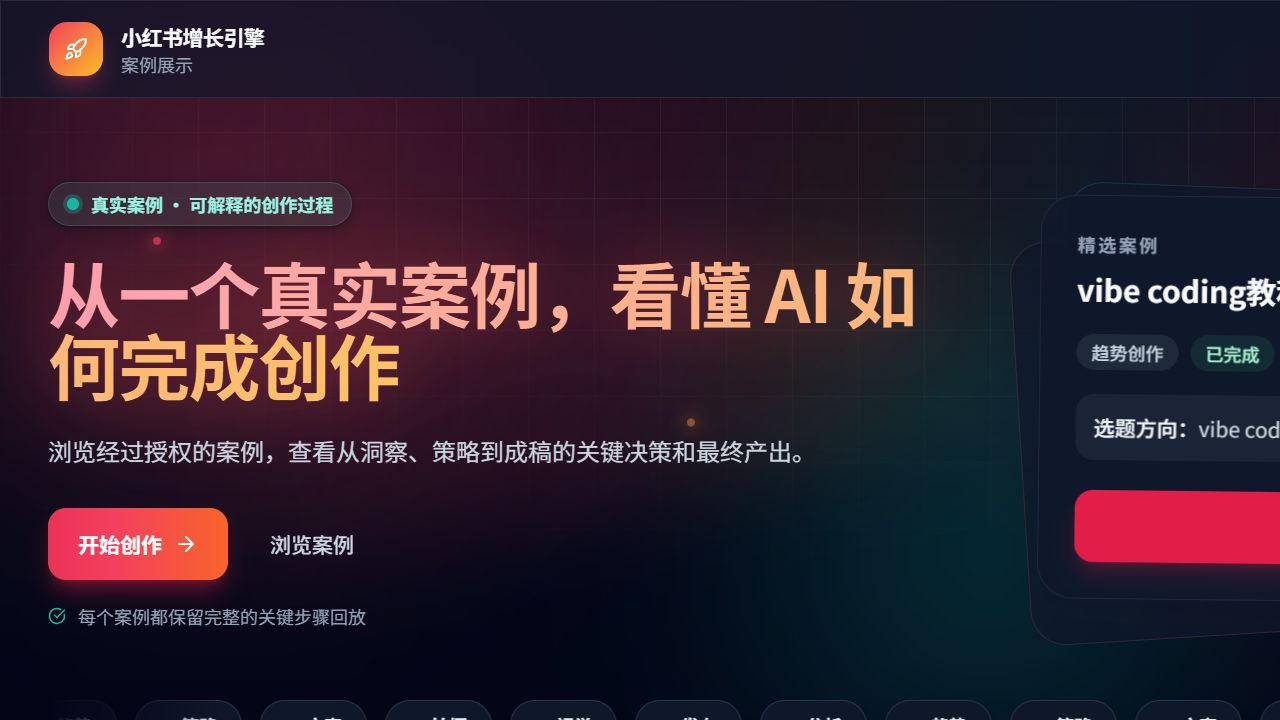
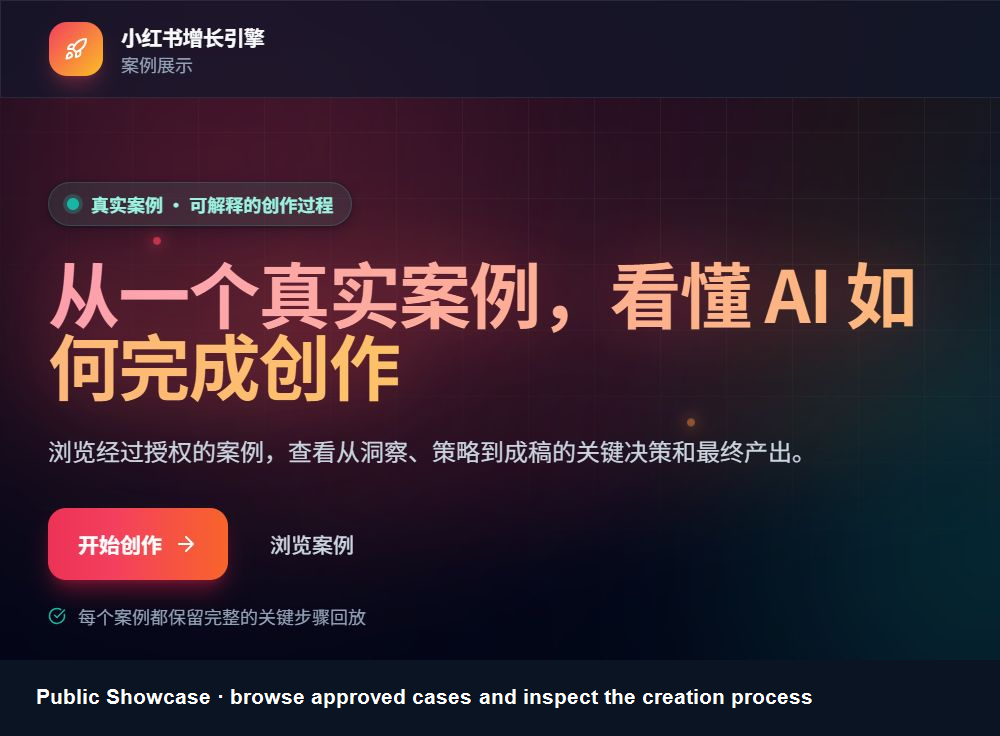
docs: refine bilingual README product showcase

diff --git a/README.md b/README.md
@@ -30,21 +30,36 @@ The public deployment has two read-only surfaces for inspecting the product befo
 
 The `Start creating` entry point is an authenticated workspace. The public pages demonstrate the product and its outputs; creating, running, reviewing, or publishing your own workflow requires login and configured credentials.
 
+### Product tour at a glance
+
+<p align="center">
+  <img src="docs/assets/readme/product-tour-overview.png" alt="Four-panel XHS Growth Agent product tour covering Showcase, Workflow Replay, Start Creating, and Analytics" width="100%">
+</p>
+
+| Area | Live entry | Access | Demonstrates |
+| --- | --- | --- | --- |
+| Public Showcase | [`/`](https://xhs.jameryw.dev/) | No login | Browse approved cases and inspect the final output. |
+| Workflow Replay | [`/replay/:caseId`](https://xhs.jameryw.dev/replay/case_c35a6559d23fd17cd832?from=%2F) | No login | Follow the evidence chain from trend discovery to review. |
+| Start Creating | `/start` | Login required | Choose Trend Discovery, Commercial Brief, or Free Creation. |
+| Analytics | `/analytics` | Login required | Switch account scope, filter time windows, and inspect growth insights. |
+
+Start with the overview, then use the detailed panels to inspect each surface. Every image uses a complete feature region with an explicit boundary, so the README stays readable at a glance.
+
 ### Showcase landing page
 
 <p align="center">
-  <img src="docs/assets/readme/live-home.png" alt="Public XHS Growth Agent Showcase landing page" width="100%">
+  <img src="docs/assets/readme/live-home.png" alt="Framed Public XHS Growth Agent Showcase hero panel" width="100%">
 </p>
 
-*Captured from the public deployment on 2026-08-12. The live sample is presented in the product's Chinese UI.*
+*Captured from the public deployment on 2026-08-12. This crop keeps the complete Showcase hero panel and removes partial cards or scroll continuation.*
 
 ### Workflow Replay
 
 <p align="center">
-  <img src="docs/assets/readme/live-replay.png" alt="Public XHS Growth Agent Workflow Replay showing four key stages" width="100%">
+  <img src="docs/assets/readme/live-replay.png" alt="Framed Public XHS Growth Agent Workflow Replay introduction panel" width="100%">
 </p>
 
-*The replay keeps the key decisions and generated outputs inspectable instead of showing only a final text blob.*
+*The replay keeps key decisions and generated outputs inspectable. This image ends at the complete stage-navigation panel.*
 
 The public sample demonstrates:
 
@@ -53,25 +68,25 @@ The public sample demonstrates:
 3. Content creation with a title, long-form body, and visual direction.
 4. Content review with key takeaways, hashtags, image count, and a color palette.
 
-### Authenticated workspace snapshots
+### Authenticated workspace feature panels
 
-The signed-in workspace adds account-scoped creation and growth operations on top of the public case viewer. These snapshots were captured from the deployed product on 2026-08-12; private account names, KPI values, and post/topic text are deliberately redacted.
+The signed-in workspace adds account-scoped creation and growth operations on top of the public case viewer. These feature panels were captured from the deployed product on 2026-08-12; private account names, KPI values, and post/topic text are deliberately redacted. Each image is composed from complete UI regions rather than a clipped long-page scroll.
 
 <p align="center">
-  <img src="docs/assets/readme/authenticated-create.png" alt="Redacted authenticated Start Creating workspace showing three creation modes, quick entries, topic input, and vertical selection" width="100%">
+  <img src="docs/assets/readme/authenticated-create.png" alt="Framed redacted authenticated Start Creating panel showing three creation modes and quick entry points" width="100%">
 </p>
 
 *Start Creating: choose Trend Discovery, Commercial Brief, or Free Creation, then continue through account-scoped setup and the preflight checklist.*
 
 <p align="center">
-  <img src="docs/assets/readme/authenticated-analytics.png" alt="Redacted authenticated Analytics workspace showing account switching, time filters, KPI cards, growth insights, and topic analysis" width="100%">
+  <img src="docs/assets/readme/authenticated-analytics.png" alt="Framed redacted authenticated Analytics panels showing account scope, time filters, KPI cards, and growth insights" width="100%">
 </p>
 
 *Analytics: switch account scope, select a time window, inspect KPI cards and growth insights, and continue into topic, chart, post-level, and CSV-export views.*
 
 ### Authenticated workspace tour
 
-After sign-in, the product expands from a public case viewer into an account-scoped operating workspace:
+After sign-in, the workspace is account-scoped and covers creation, review, analytics, and account operations:
 
 | Surface | What you can do |
 | --- | --- |
@@ -84,7 +99,20 @@ After sign-in, the product expands from a public case viewer into an account-sco
 | Settings | Manage console users, XHS accounts, QR/browser login state, creator-center data binding, global model/Ripple/vector configuration, and public-page experience monitoring. |
 | Help Center | Read FAQs, open keyboard shortcuts, and submit product feedback. |
 
-The inventory above reflects the signed-in workspace observed on 2026-08-12. Account names, private metrics, post text, and workflow records vary by deployment and are intentionally not checked into this repository; the public Showcase/Replay images and the redacted workspace snapshots above are the shareable evidence assets.
+The inventory above reflects the signed-in workspace observed on 2026-08-12. Account names, private metrics, post text, and workflow records vary by deployment and are intentionally not checked into this repository; the public Showcase/Replay images and the redacted workspace panels above are the shareable evidence assets.
+
+### From input to output
+
+With the relevant integrations enabled, a run moves from the following inputs through workspace steps to inspectable outputs:
+
+| Input or signal | Workspace step | Output to inspect |
+| --- | --- | --- |
+| Trend or growth brief | Start Creating | Account, topic, vertical, and readiness state |
+| Research signals | Trend Scout + Content Strategist | Evidence, audience insight, positioning, and timing |
+| Draft direction | Copywriter + Visual Designer | Title, body, hashtags, CTA, and visual plan |
+| Human decision | Review | Approval, rejection, or revision feedback before publishing |
+| Approved package | Quality Evaluation + Publisher | Quality result, publish request, and optional experiment/scheduling hooks |
+| Performance feedback | Analytics + Engagement | KPIs, topic patterns, post-level results, and signals for the next run |
 
 ## Product capabilities
 
@@ -291,7 +319,7 @@ Use `/xhs [topic]` to start a workflow and `/xhs-review` to review pending conte
 
 ## Visual recommendation engine
 
-The visual layer is data-driven rather than a fixed prompt list. It extracts patterns from XHS posts, stores scene-level data with expiry, and recommends layouts and styles by content type, compatibility, popularity, palette, and trend score.
+The visual layer uses data-driven recommendations. It extracts patterns from XHS posts, stores scene-level data with expiry, and recommends layouts and styles by content type, compatibility, popularity, palette, and trend score.
 
 Supported scene families include food, travel, fashion, beauty, lifestyle, fitness, and home decor. The recommendation models live under `backend/tools/visual/` and are consumed by the visual designer workflow.
 

diff --git a/README.zh-CN.md b/README.zh-CN.md
@@ -30,21 +30,36 @@
 
 “开始创作”会进入需要登录的工作区。公开页面用于了解产品和示例结果；创建、运行、审核或发布自己的工作流需要登录并配置凭据。
 
+### 产品导览总览
+
+<p align="center">
+  <img src="docs/assets/readme/product-tour-overview.png" alt="四宫格小红书增长引擎产品导览，覆盖公开案例、工作流回放、开始创作和数据分析" width="100%">
+</p>
+
+| 区域 | 线上入口 | 访问要求 | 展示内容 |
+| --- | --- | --- | --- |
+| 公开案例展示 | [`/`](https://xhs.jameryw.dev/) | 无需登录 | 浏览已授权案例并查看最终产出。 |
+| 工作流回放 | [`/replay/:caseId`](https://xhs.jameryw.dev/replay/case_c35a6559d23fd17cd832?from=%2F) | 无需登录 | 按步骤查看从趋势发现到内容审核的证据链。 |
+| 开始创作 | `/start` | 需要登录 | 选择趋势发现、商单 Brief 或自由创作。 |
+| 数据分析 | `/analytics` | 需要登录 | 切换账号范围、筛选时间窗口并查看增长洞察。 |
+
+先看总览图，再通过下面的功能区块了解各个页面。每张图片都保留完整界面区域并标出清晰边界，打开 README 时可以直接读懂。
+
 ### 案例展示首页
 
 <p align="center">
-  <img src="docs/assets/readme/live-home.png" alt="小红书增长引擎公开案例展示首页" width="100%">
+  <img src="docs/assets/readme/live-home.png" alt="带完整边界的小红书增长引擎公开案例展示主视觉区块" width="100%">
 </p>
 
-*截图于 2026-08-12 的线上公开部署，线上示例使用产品中文界面。*
+*截图于 2026-08-12 的线上公开部署。图片保留完整的 Showcase 主视觉区块，并移除了半截卡片和页面滚动延续内容。*
 
 ### 工作流回放
 
 <p align="center">
-  <img src="docs/assets/readme/live-replay.png" alt="展示四个关键阶段的小红书增长引擎工作流回放" width="100%">
+  <img src="docs/assets/readme/live-replay.png" alt="带完整边界的小红书增长引擎工作流回放介绍区块" width="100%">
 </p>
 
-*回放保留关键决策和生成结果，用户看到的不只是最终一段文案。*
+*回放保留关键决策和生成结果；图片停在完整的阶段导航区块。*
 
 线上公开案例当前展示了：
 
@@ -53,25 +68,25 @@
 3. 内容创作，包括标题、长正文和视觉方向；
 4. 内容审核，包括关键要点、标签、图片数量和配色方案。
 
-### 登录后工作区截图
+### 登录后工作区功能区块截图
 
-登录后的工作区在公开案例查看器之上增加了按账号隔离的创作与增长运营能力。以下截图来自 2026-08-12 的线上部署；账号名称、指标数值以及帖子/话题文本均已主动遮盖。
+登录后的工作区在公开案例查看器之上增加了按账号隔离的创作与增长运营能力。以下功能区块截图来自 2026-08-12 的线上部署；账号名称、指标数值以及帖子/话题文本均已主动遮盖。每张图片都由完整界面区块构成，不再使用容易产生残缺的长页面滚动截图。
 
 <p align="center">
-  <img src="docs/assets/readme/authenticated-create.png" alt="已脱敏的登录后开始创作工作区，展示三种创作模式、快速入口、主题输入和垂类选择" width="100%">
+  <img src="docs/assets/readme/authenticated-create.png" alt="带完整边界的已脱敏登录后开始创作区块，展示三种创作模式和快速入口" width="100%">
 </p>
 
 *开始创作：选择趋势发现、商单 Brief 或自由创作，再继续完成按账号配置和启动前就绪检查。*
 
 <p align="center">
-  <img src="docs/assets/readme/authenticated-analytics.png" alt="已脱敏的登录后数据分析工作区，展示账号切换、时间筛选、指标卡、增长洞察和话题分析" width="100%">
+  <img src="docs/assets/readme/authenticated-analytics.png" alt="带完整边界的已脱敏登录后数据分析区块，展示账号范围、时间筛选、指标卡和增长洞察" width="100%">
 </p>
 
 *数据分析：切换账号范围、选择时间窗口、查看指标卡和增长洞察，并继续查看话题、图表、帖子明细和 CSV 导出。*
 
 ### 登录后工作区导览
 
-登录后，产品会从公开案例查看器扩展为按账号隔离的内容运营工作区：
+登录后，工作区按账号隔离，覆盖创作、审核、数据分析和账号运营：
 
 | 页面 | 可以做什么 |
 | --- | --- |
@@ -84,7 +99,20 @@
 | 设置 | 管理管控台用户、小红书账号、扫码/浏览器登录态、创作者中心数据绑定、模型/Ripple/向量配置和公开页体验监控。 |
 | 帮助中心 | 查看 FAQ、打开键盘快捷键并提交产品反馈。 |
 
-以上能力清单来自 2026-08-12 对登录后工作区的实际查看。账号名称、真实指标、帖子文本和工作流记录会随部署变化，因此不会提交到仓库；仓库保留公开 Showcase/Replay 截图和已脱敏的工作区截图作为可分享证据。
+以上能力清单来自 2026-08-12 对登录后工作区的实际查看。账号名称、真实指标、帖子文本和工作流记录会随部署变化，因此不会提交到仓库；仓库保留公开 Showcase/Replay 截图和已脱敏的工作区功能区块作为可分享证据。
+
+### 从输入到产出
+
+启用相应集成后，一次运行会沿着以下路径，从输入经过工作区步骤，留下可检查的产出：
+
+| 输入或信号 | 工作区步骤 | 可以检查的产出 |
+| --- | --- | --- |
+| 热点或增长 Brief | 开始创作 | 账号、主题、垂类和启动就绪状态 |
+| 调研信号 | 趋势侦察 + 内容策略 | 证据、受众洞察、定位和发布时间判断 |
+| 创作方向 | 文案创作 + 视觉设计 | 标题、正文、标签、CTA 和视觉方案 |
+| 人工决策 | 内容审核 | 发布前的通过、拒绝或修改意见 |
+| 已通过的笔记包 | 质量评估 + 内容发布 | 质量结果、发布请求，以及可选的实验/定时发布扩展点 |
+| 发布后反馈 | 数据分析 + 用户互动 | 指标、话题模式、帖子明细和下一轮创作信号 |
 
 ## 产品能力
 
@@ -291,7 +319,7 @@ export XHS_AGENT_API_BASE=http://localhost:8000
 
 ## 视觉推荐引擎
 
-视觉层不是固定提示词列表，而是数据驱动的推荐引擎：从小红书帖子中提取模式，按场景保存并过期，再依据内容类型、兼容性、热度、配色和趋势分数推荐布局与风格。
+视觉层使用数据驱动的推荐引擎：从小红书帖子中提取模式，按场景保存并过期，再依据内容类型、兼容性、热度、配色和趋势分数推荐布局与风格。
 
 支持美食、旅行、穿搭、美妆、生活方式、健身和家居等场景，相关模型位于 `backend/tools/visual/`，由视觉设计工作流调用。
 
